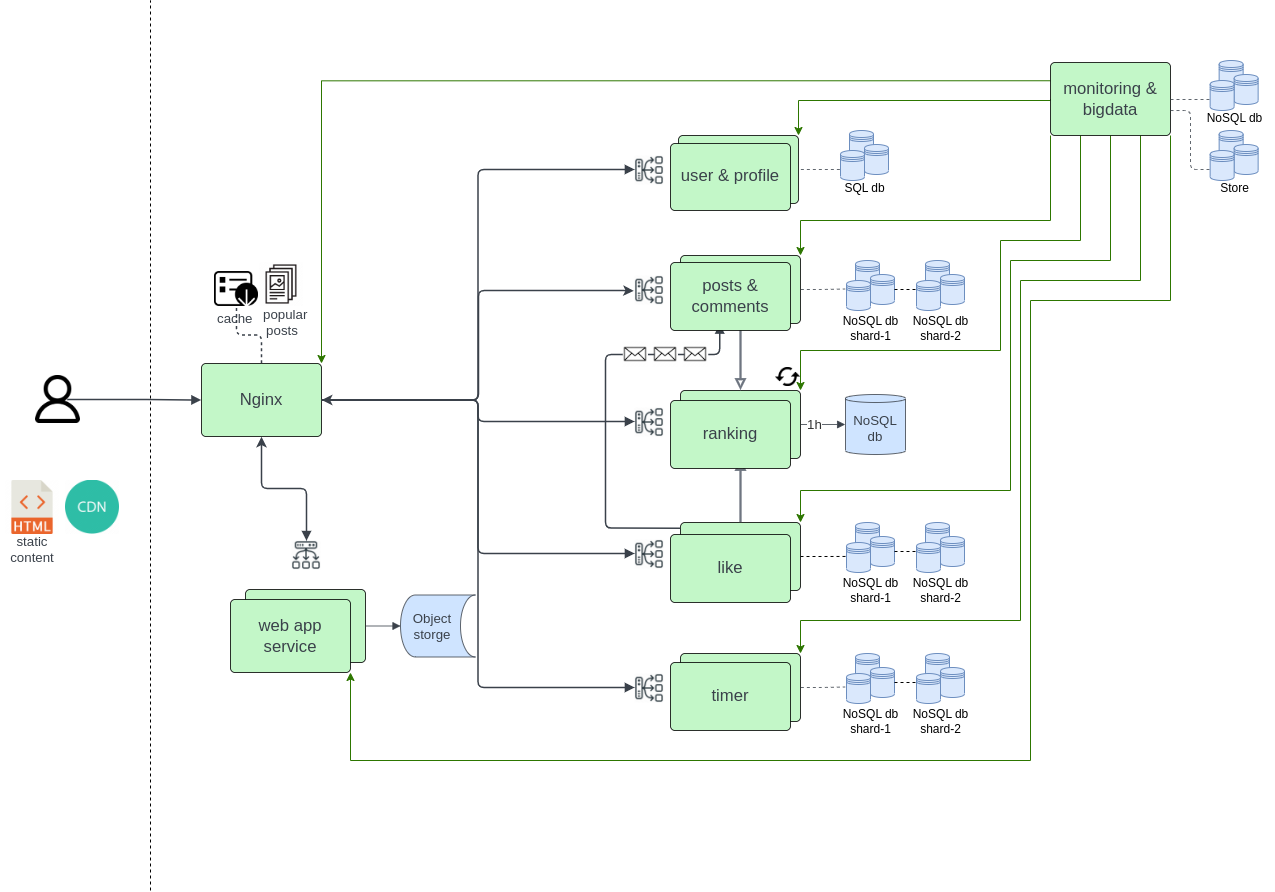
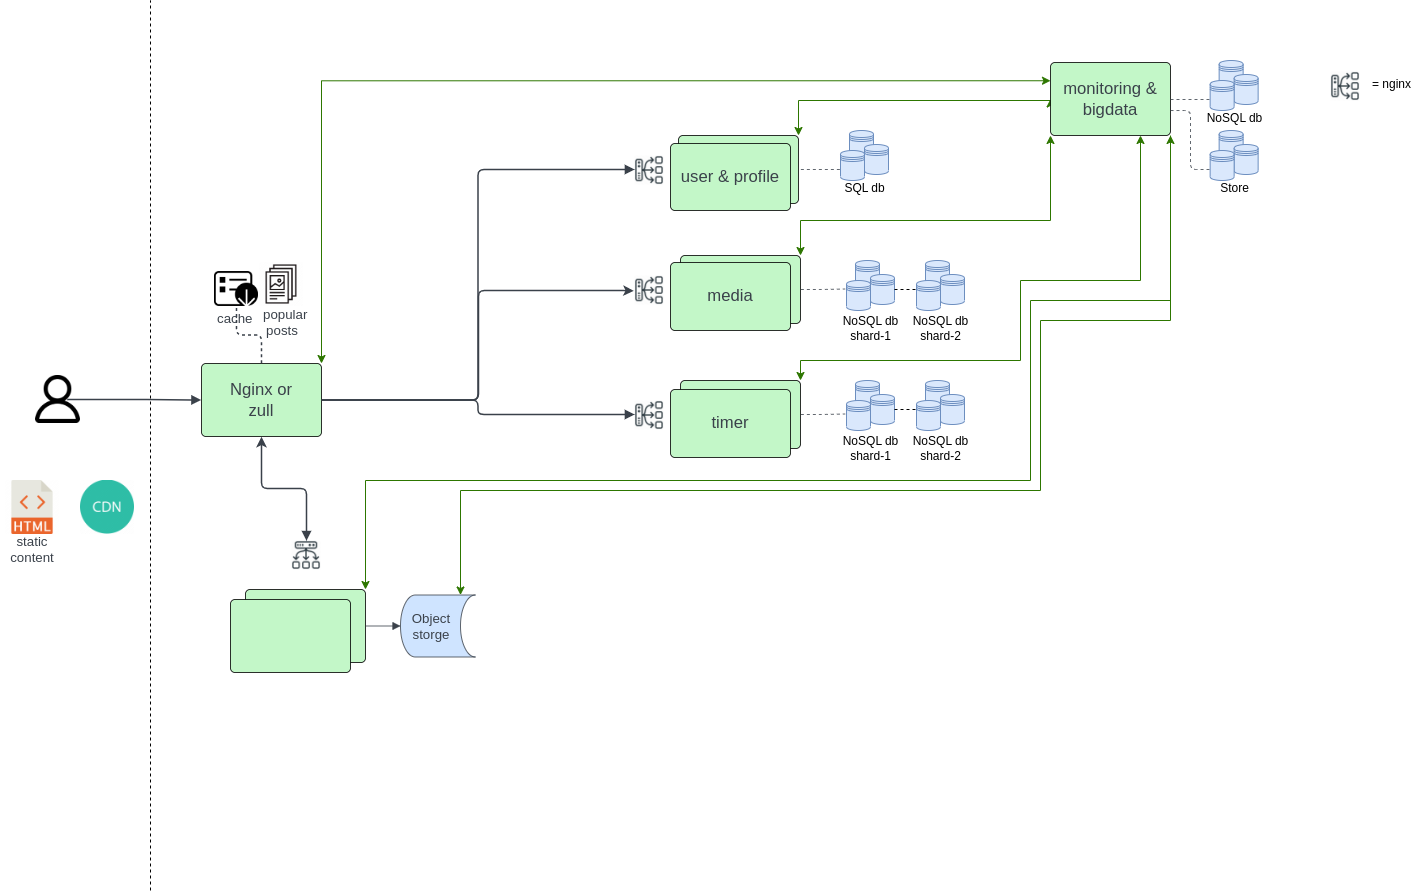
2 usless servecis was removed

diff --git a/architecture.md b/architecture.md
@@ -1,4 +1,12 @@
-# Project requirements
+## What we want to do?
+##### make the best service for cubers
+
+## What is the primary idea of this project?
+##### Cubers can find another cubers with same interests and ideas
+##### Cubers can solve cube on timer
+##### Cubers and people can read tutorials that we provide
+
+## Project requirements
 
 ### Social network for speedcubers
 
